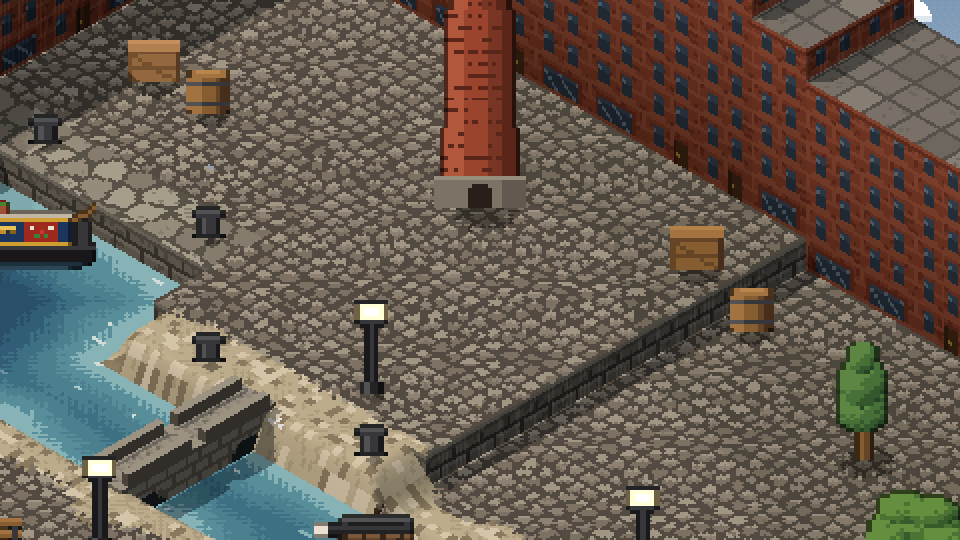
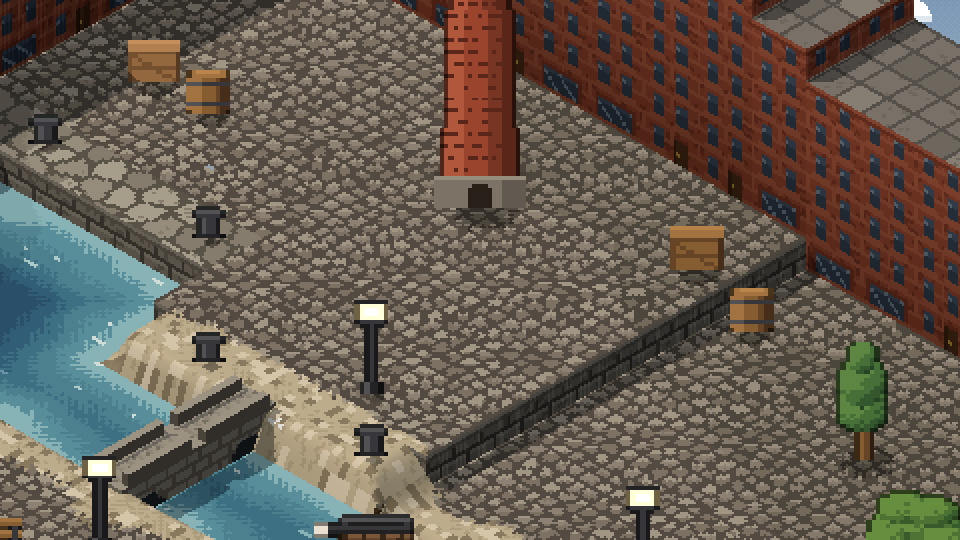
M13 round 1: no narrowboats in Canal Quarter
The user: "remove the ships as they are not representative in size compared
to the rest of the surrounding structure. Ships are supposed to be way
bigger." A boat drawn on one tile looked like a toy next to warehouses six
and seven steps tall.

- The four narrowboats are gone from the canal, and the narrowboat sprite
  with it. The lock gates, bollards and quays still say "canal".
- Side effect: sprites after it in PROP_IDS draw with a different random
  stream, so the clock tower's brick courses changed slightly (High Street's
  captures change in the tower only). Every other capture is identical.
- tasks/lessons.md: check a prop's scale against the buildings around it,
  and leave vehicles out rather than shrink them (applies to M14-M16).

1017 tests; 42 of 46 captures identical (canal, and the clock tower on
highstreet).

Progress:
- M13 round 1: Canal Quarter re-shot; four-modern.png and timeline.gif
  rebuilt.
- Pictures: evolution/land/m13-modern/canal/, highstreet/, four-modern.png.

Claude-Session: https://claude.ai/code/session_01ChdmxdtPtYaxuesJ4WUCQ5

Changed region(s): [[0.0, 0.3556, 0.125, 0.5037], [0.4375, 0.1185, 0.5312, 0.2963], [0.4688, 0.0, 0.5312, 0.1185]]

diff --git a/src/map/propSprites.ts b/src/map/propSprites.ts
@@ -1421,45 +1421,6 @@ const ART: Record<PropId, SpriteArt> = {
       g.outline(0.6);
     },
   },
-  narrowboat: {
-    w: 44, h: 18,
-    paint(g, v) {
-      // A canal narrowboat, long and low: a painted cabin with brass portholes and a panel of
-      // roses, a stove chimney with brass bands, plant pots on the roof, the tiller at the stern.
-      const [body, trim, panel] = v ? ['#1e3a6a', '#d8a838', '#a42e24'] : ['#7a1e1a', '#2e6a3a', '#e8c040'];
-      // Black hull at the waterline.
-      g.rect(1, 13, 42, 3, '#1a1a1e');
-      g.rect(0, 12, 44, 1, '#3a3c42');
-      g.rect(3, 16, 38, 1, '#1e3446');
-      g.rect(6, 17, 32, 1, '#2e4c60');
-      // The cabin, with a contrasting band along the top and a lighter roof.
-      g.rect(6, 5, 32, 7, body);
-      g.rect(6, 5, 32, 1, trim);
-      g.rect(6, 11, 32, 1, trim);
-      g.rect(5, 4, 34, 1, '#c8c4b8');
-      for (const x of [10, 15, 20, 25]) {
-        g.ball(x + 0.5, 8, 1.4, 1.4, ['#8a6a20', '#c89a30', '#f0d060']);
-        g.set(x, 8, '#2a3440');
-      }
-      // A painted panel of roses on the cabin side, near the stern.
-      g.rect(29, 6, 7, 5, panel);
-      for (const [x, y, c] of [[30, 7, '#f4f0e8'], [32, 8, '#d83a3a'], [34, 7, '#f4f0e8'], [31, 9, '#3e8a44'], [33, 9, '#3e8a44']] as const) g.set(x, y, c);
-      // The stove chimney, plant pots on the roof, and the tiller and rudder at the stern.
-      g.rect(12, 0, 2, 4, '#24252a');
-      g.rect(12, 1, 2, 1, '#d8b040');
-      for (const x of [18, 22]) {
-        g.rect(x, 2, 3, 2, '#a4553c');
-        g.rect(x, 1, 3, 1, '#4e8a3a');
-        g.set(x + 1, 0, '#d83a3a');
-      }
-      g.line(39, 5, 43, 2, WOOD[2]);
-      g.rect(40, 6, 2, 6, '#3a3c42');
-      // The bow, rising and pointed.
-      g.rect(1, 9, 5, 3, body);
-      g.rect(1, 9, 5, 1, trim);
-      g.outline(0.55);
-    },
-  },
   lock_gate: {
     w: 24, h: 18,
     paint(g) {

diff --git a/src/map/props.ts b/src/map/props.ts
@@ -95,7 +95,6 @@ export const PROPS: Record<PropId, PropDef> = {
   picnic_table:  prop('Picnic Table',  { defense: 10, shadow: 6 }),
   washing_line:  prop('Washing Line',  { defense: 5, shadow: 3, sway: 0.03 }),
   ducks:         prop('Ducks',         { defense: 0, shadow: 0, sway: 0.01, floats: true }),
-  narrowboat:    prop('Narrowboat',    { defense: 0, variants: 2, shadow: 0, sway: 0.005, floats: true }),
   lock_gate:     prop('Lock Gate',     { defense: 0, shadow: 0, floats: true }),
   bollard:       prop('Bollard',       { defense: 5, shadow: 2 }),
   mill_chimney:  prop('Mill Chimney',  { defense: 0, blocks: true, shadow: 8 }),

diff --git a/src/themes/canal.ts b/src/themes/canal.ts
@@ -28,8 +28,7 @@ const TERRACES: [number, number, number][] = [[3, 6, 17], [14, 17, 16]];
 /** Hand-placed decor, keyed "x,y". */
 const PROPS: Record<string, PropId> = {
   '8,4': 'mill_chimney',
-  // Boats moored in the basin and along the canal; the lock gates.
-  '4,9': 'narrowboat', '3,12': 'narrowboat', '14,11': 'narrowboat', '18,10': 'narrowboat',
+  // The lock gates.
   '12,10': 'lock_gate', '12,11': 'lock_gate',
   // Bollards along the quays and towpaths, cargo on the wharf.
   '3,7': 'bollard', '6,7': 'bollard', '8,9': 'bollard', '11,9': 'bollard', '14,12': 'bollard', '18,12': 'bollard', '4,14': 'bollard',

diff --git a/src/map/types.ts b/src/map/types.ts
@@ -32,7 +32,7 @@ export const PROP_IDS = [
   'boat', 'lighthouse', 'net_rack', 'gazebo', 'topiary', 'statue', 'gatehouse', 'maypole', 'fair_tent', 'bunting',
   'locomotive', 'bus_shelter', 'bike_rack', 'buffer_stop', 'station_clock',
   'playground', 'picnic_table', 'washing_line', 'ducks',
-  'narrowboat', 'lock_gate', 'bollard', 'mill_chimney',
+  'lock_gate', 'bollard', 'mill_chimney',
   'clock_tower', 'phone_box', 'post_box', 'belisha', 'cafe_table',
 ] as const;
 export type PropId = (typeof PROP_IDS)[number];

diff --git a/tasks/todo.md b/tasks/todo.md
@@ -493,7 +493,7 @@ The user asked for the four deferred items before units and battles. Order: tech
   - [x] M13 Modern Town: Station Square, Suburban Park, Canal Quarter, High Street (in review)
     - Station Square: rail tracks along the back, raised platforms, the station building, a taxi rank and bus shelter; landmark a preserved steam engine on a plinth in the square. New: `rail` terrain (ballast and sleepers), locomotive, bus_shelter, bike_rack, buffer_stop, station_clock.
     - Suburban Park: houses with gardens behind hedges, a cul-de-sac, a park with a pond and paths; landmark a playground (slide and swings). New: `house_brick` (red-brick `villa` walls, slate roof), `bark`, playground, picnic_table, washing_line, ducks.
-    - Canal Quarter: a canal in two pounds joined by a lock, towpaths, brick warehouses and a footbridge; landmark a mill chimney. New: narrowboat ×2 (floats), lock_gate (floats), bollard, mill_chimney.
+    - Canal Quarter: a canal in two pounds joined by a lock, towpaths, brick warehouses and a footbridge; landmark a mill chimney. New: lock_gate (floats), bollard, mill_chimney (narrowboats removed in review).
     - High Street: shopfronts with awnings along the back, a crossing, a bus stop; landmark the town clock tower. New: `shop_building` and `shop_brick` (a `shop` face: fascia, striped awning, display window and door), `zebra` crossing, phone_box, post_box, belisha, cafe_table ×2, clock_tower.
   - [ ] M14 Neon City: Highway Overpass, Rooftop Arcade, Container Port, Shrine Steps
   - [ ] M15 Ruins: Desert Pyramid, Sunken Temple, Overgrown Colosseum, Stone Circle
@@ -549,8 +549,9 @@ Not needed for the agreed bar; pick up if circumstances change.
   - Canal Quarter (c25698d);
   - High Street (6c5c6ea).
 - New terrains: rail (`rails` painter), house_brick (`villa` face), bark, shop_building and shop_brick (`shop` face), zebra (`zebra` painter).
-- New props: locomotive, bus_shelter, bike_rack, buffer_stop, station_clock, playground, picnic_table, washing_line, ducks (floats), narrowboat ×2 (floats), lock_gate (floats), bollard, mill_chimney, clock_tower, phone_box, post_box, belisha (glows), cafe_table ×2.
+- New props: locomotive, bus_shelter, bike_rack, buffer_stop, station_clock, playground, picnic_table, washing_line, ducks (floats), lock_gate (floats), bollard, mill_chimney, clock_tower, phone_box, post_box, belisha (glows), cafe_table ×2.
 - Fix: `Panorama.rooftops` drew its gables upside down. Village Fair's backdrop band changed (rows 388-442 of the capture), nothing else.
 - check.mjs: the size-picker and R checks wait up to 30 s for a 48×48 board (10 s timed out once on a busy machine).
 - Tooling: tasks/perf/sheet.mjs builds the four-map sheet.
 - Tests: 1017; check.mjs 74/74; 46 captures in the identity set.
+- Round 1 (user: "remove the ships… ships are supposed to be way bigger"): the narrowboats are gone from Canal Quarter, and the sprite with them. Lesson in lessons.md. The clock tower's random brick courses changed slightly, because its sprite seed follows its place in PROP_IDS.

diff --git a/evolution/README.md b/evolution/README.md
@@ -397,13 +397,14 @@ Six new maps, one per category, rendered with the same engine as M2d. Each shows
 - **What changed:**
   - **Station Square** (`?map=station`): a terminus, with two tracks ending at buffer stops between raised platforms and a platform clock. In the forecourt are a taxi lane, a bus shelter, cycle racks and a preserved steam engine on a plinth. Rail is new ground: steel rails on sleepers in ballast, slow to cross.
   - **Suburban Park** (`?map=suburb`): red-brick houses with slate roofs and hedged front gardens, with washing out on the lines. A street bends round a park with a playground on bark chippings, a round duck pond, picnic tables and a small hill. The houses get a new wall: brick, white windows, a bay window and a front door in a different colour on each face.
-  - **Canal Quarter** (`?map=canal`): a canal basin by the warehouses and a lock where the canal and the land step down a level. The lock has timber gates with balance beams and a towpath ramping down beside it. Narrowboats are moored along the water, a stone bridge and a footbridge are the only crossings, and the mill chimney towers over the wharf.
+  - **Canal Quarter** (`?map=canal`): a canal basin by the warehouses and a lock where the canal and the land step down a level. The lock has timber gates with balance beams and a towpath ramping down beside it. A stone bridge and a footbridge are the only crossings, and the mill chimney towers over the wharf. Narrowboats were moored on the water at first; review round 1 removed them, because a boat drawn on one tile looked like a toy beside the warehouses.
   - **High Street** (`?map=highstreet`): rows of shops, brick and cream in turn, each with a fascia, a striped awning and a display window. The town clock tower stands on a raised square. Around it are a red phone box and post boxes, café tables, a zebra crossing between Belisha beacons, a bus stop and market stalls.
 - **Fixed:** the backdrop's gabled roofs were drawn upside down. Village Fair's distant village had them too; only that band of its backdrop changed.
 - **Decisions:** none new; built as planned and reviewed one map at a time.
 - **Learned:**
   - Wall colour can't vary per face. Each step of a wall picks its texture variant on its own, so a colour per variant would stripe a house floor by floor. Rows of different shops come from alternating two terrains instead.
   - A level change can carry a feature. Stepping the land down with the canal makes the lock read at a glance, and the natural towpath turns into a ramp by itself.
+  - Scale matters as much as detail. A vehicle squeezed onto one tile reads as a toy next to buildings several storeys tall. Leave such things out and suggest them with scenery: bollards, the lock, the quay.
   - Pixel-checking every older map after each new one paid off again. It confirmed the roof fix touched only Village Fair's backdrop band, and that every other map stayed identical.
 
 ### M12: Four more Kingdom maps

diff --git a/tasks/lessons.md b/tasks/lessons.md
@@ -48,3 +48,8 @@
 - **What happened:** Snow settled on the ground, the roofs and the mounds, but the trees and rocks stayed bare green. That contradicts the ground around them.
 - **Rule:** A weather or season effect must reach everything exposed to it: ground, cliffs, roofs, trees, rocks and props. List every layer the scene draws (ground, sides, bridges, props, flora, backdrop) and decide for each one, before showing it.
 
+
+## 2026-10-26: "Ships are supposed to be way bigger"
+- **What happened:** In Canal Quarter I moored narrowboats in a canal two tiles wide. A tile-sized boat sprite next to warehouses six and seven steps tall looked like a toy, so the user had them removed.
+- **Rule:** Before adding a prop, check its scale against the buildings and terrain around it: a tile is a few metres across, and a building column is a few storeys. Leave out anything that can't be drawn near its true size on one tile (vehicles, ships, large machines) rather than shrink it. Suggest the place with scenery (moorings, bollards, a lock) instead.
+- **Rule:** Apply this to everything still to come in M14–M16 (container ships, cars, trains): no miniature vehicles.
